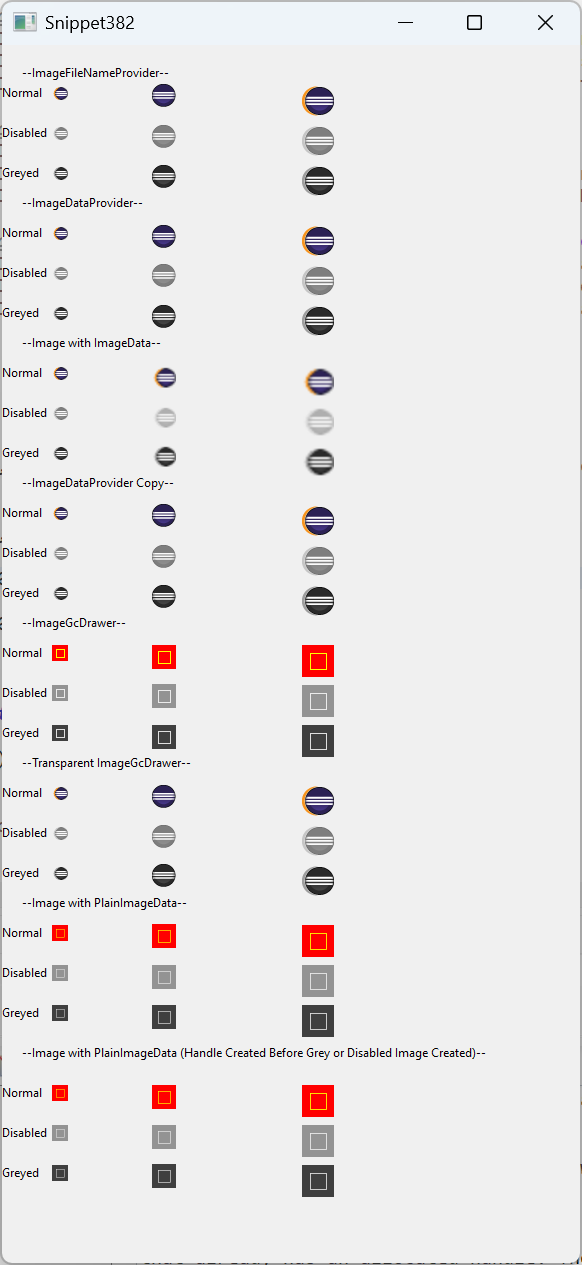
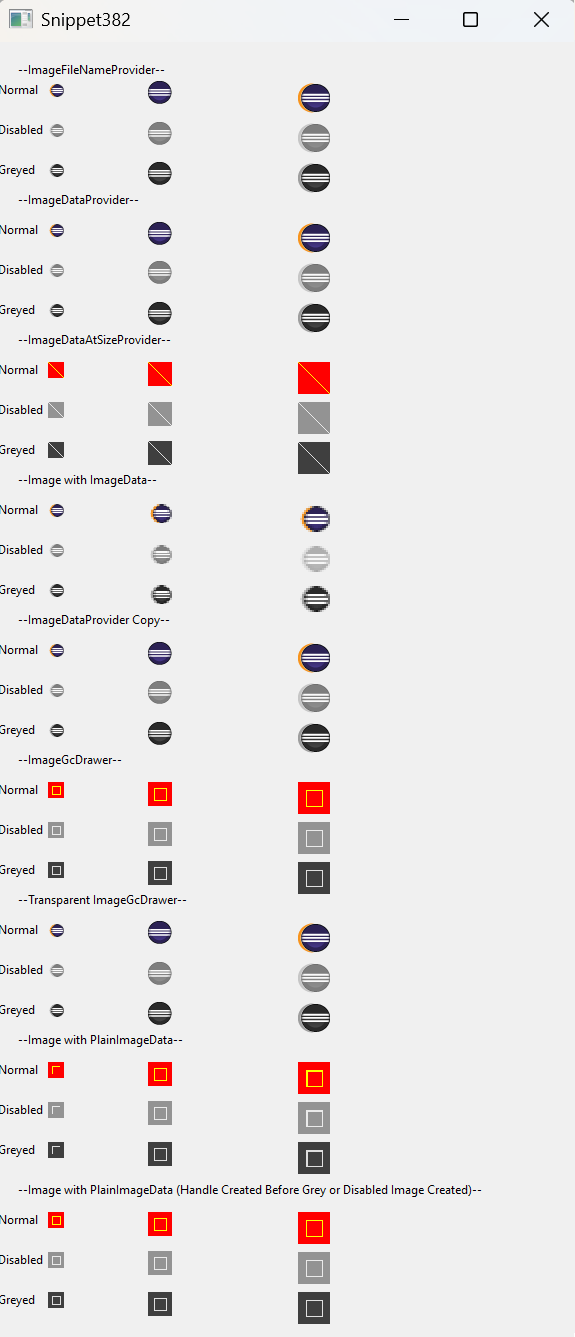
Add ImageDataAtSizeProvider to Snippet382
This commit adds the usage of an ImageDataAtSizeProvider to Snippet382
for cover this use case for greyed/disabled images.

Changed region(s): [[0.0, 0.0, 1.0, 1.0], [0.7983, 0.0, 0.8574, 0.0308]]

diff --git a/examples/org.eclipse.swt.snippets/src/org/eclipse/swt/snippets/Snippet382.java b/examples/org.eclipse.swt.snippets/src/org/eclipse/swt/snippets/Snippet382.java
@@ -63,24 +63,54 @@ public class Snippet382 {
 				return null;
 			}
 		};
+		final ImageDataAtSizeProvider imageDataAtSizeProvider = new ImageDataAtSizeProvider() {
+
+			@Override
+			public Point getDefaultSize() {
+				return new Point(16, 16);
+			}
+
+			@Override
+			public ImageData getImageData(int width, int height) {
+				ImageData data = new ImageData(width, height, 24,
+						new PaletteData(0xFF0000, 0x00FF00, 0x0000FF));
+				int red = data.palette.getPixel(new RGB(255, 0, 0));
+				int yellow = data.palette.getPixel(new RGB(255, 255, 0));
+				for (int x = 0; x < data.width; x++) {
+					for (int y = 0; y < data.height; y++) {
+						if (x == y) {
+							data.setPixel(x, y, yellow);
+						} else {
+							data.setPixel(x, y, red);
+						}
+					}
+				}
+
+				return data;
+			}
+		};
 
 		final Display display = new Display ();
 
 		final Image imageWithFileNameProvider = new Image (display, filenameProvider);
-		final Supplier<Image> disabledImageWithFileNameProvider = () ->  new Image (display,imageWithFileNameProvider, SWT.IMAGE_DISABLE);
-		final Supplier<Image> greyImageWithFileNameProvider = () ->  new Image (display,imageWithFileNameProvider, SWT.IMAGE_GRAY);
+		final Supplier<Image> disabledImageWithFileNameProvider = () ->  new Image (display, imageWithFileNameProvider, SWT.IMAGE_DISABLE);
+		final Supplier<Image> greyImageWithFileNameProvider = () ->  new Image (display, imageWithFileNameProvider, SWT.IMAGE_GRAY);
 
 		final Image imageWithDataProvider = new Image (display, imageDataProvider);
-		final Image disabledImageWithDataProvider = new Image (display,imageWithDataProvider, SWT.IMAGE_DISABLE);
-		final Image greyImageWithDataProvider = new Image (display,imageWithDataProvider, SWT.IMAGE_GRAY);
+		final Image disabledImageWithDataProvider = new Image (display, imageWithDataProvider, SWT.IMAGE_DISABLE);
+		final Image greyImageWithDataProvider = new Image (display, imageWithDataProvider, SWT.IMAGE_GRAY);
+
+		final Image imageWithDataAtSizeProvider = new Image (display, imageDataAtSizeProvider);
+		final Image disabledImageWithDataAtSizeProvider = new Image (display, imageWithDataAtSizeProvider, SWT.IMAGE_DISABLE);
+		final Image greyImageWithDataAtSizeProvider = new Image (display, imageWithDataAtSizeProvider, SWT.IMAGE_GRAY);
 
 		final Image imageWithData = new Image (display, IMAGE_PATH_100);
-		final Image disabledImageWithData = new Image (display,imageWithData, SWT.IMAGE_DISABLE);
-		final Image greyImageWithData = new Image (display,imageWithData, SWT.IMAGE_GRAY);
+		final Image disabledImageWithData = new Image (display, imageWithData, SWT.IMAGE_DISABLE);
+		final Image greyImageWithData = new Image (display, imageWithData, SWT.IMAGE_GRAY);
 
 		final Supplier<Image> imageWithDataCopy = () ->   new Image (display, imageWithDataProvider, SWT.IMAGE_COPY);
-		final Supplier<Image> disabledImageWithDataCopy = () ->  new Image (display,disabledImageWithDataProvider, SWT.IMAGE_COPY);
-		final Supplier<Image> greyImageWithDataCopy = () ->  new Image (display,greyImageWithDataProvider, SWT.IMAGE_COPY);
+		final Supplier<Image> disabledImageWithDataCopy = () ->  new Image (display, disabledImageWithDataProvider, SWT.IMAGE_COPY);
+		final Supplier<Image> greyImageWithDataCopy = () ->  new Image (display, greyImageWithDataProvider, SWT.IMAGE_COPY);
 
 		final ImageGcDrawer imageGcDrawer = (gc, width, height) -> {
 			gc.setBackground(display.getSystemColor(SWT.COLOR_RED));
@@ -150,44 +180,49 @@ public class Snippet382 {
 
 					try {
 						mainGC.drawText("--ImageFileNameProvider--", 20, 20);
-						drawImages(mainGC, gcData, "Normal",40, imageWithFileNameProvider);
-						drawImages(mainGC, gcData, "Disabled",80, disabledImageWithFileNameProvider.get());
-						drawImages(mainGC, gcData, "Greyed",120, greyImageWithFileNameProvider.get());
+						drawImages(mainGC, gcData, "Normal", 40, imageWithFileNameProvider);
+						drawImages(mainGC, gcData, "Disabled", 80, disabledImageWithFileNameProvider.get());
+						drawImages(mainGC, gcData, "Greyed", 120, greyImageWithFileNameProvider.get());
 
 						mainGC.drawText("--ImageDataProvider--", 20, 150);
-						drawImages(mainGC, gcData, "Normal",180, imageWithDataProvider);
-						drawImages(mainGC, gcData, "Disabled",220, disabledImageWithDataProvider);
-						drawImages(mainGC, gcData, "Greyed",260, greyImageWithDataProvider);
+						drawImages(mainGC, gcData, "Normal", 180, imageWithDataProvider);
+						drawImages(mainGC, gcData, "Disabled", 220, disabledImageWithDataProvider);
+						drawImages(mainGC, gcData, "Greyed", 260, greyImageWithDataProvider);
 
-						mainGC.drawText("--Image with ImageData--", 20, 290);
-						drawImages(mainGC, gcData, "Normal",320, imageWithData);
-						drawImages(mainGC, gcData, "Disabled",360, disabledImageWithData);
-						drawImages(mainGC, gcData, "Greyed",400, greyImageWithData);
+						mainGC.drawText("--ImageDataAtSizeProvider--", 20, 290);
+						drawImagesAtSize(mainGC, gcData, "Normal", 320, imageWithDataAtSizeProvider);
+						drawImagesAtSize(mainGC, gcData, "Disabled", 360, disabledImageWithDataAtSizeProvider);
+						drawImagesAtSize(mainGC, gcData, "Greyed", 400, greyImageWithDataAtSizeProvider);
 
-						mainGC.drawText("--ImageDataProvider Copy--", 20, 430);
-						drawImages(mainGC, gcData, "Normal",460, imageWithDataCopy.get());
-						drawImages(mainGC, gcData, "Disabled",500, disabledImageWithDataCopy.get());
-						drawImages(mainGC, gcData, "Greyed",540, greyImageWithDataCopy.get());
+						mainGC.drawText("--Image with ImageData--", 20, 430);
+						drawImages(mainGC, gcData, "Normal", 460, imageWithData);
+						drawImages(mainGC, gcData, "Disabled", 500, disabledImageWithData);
+						drawImages(mainGC, gcData, "Greyed", 540, greyImageWithData);
 
-						mainGC.drawText("--ImageGcDrawer--", 20, 570);
-						drawImages(mainGC, gcData, "Normal", 600, imageWithGcDrawer);
-						drawImages(mainGC, gcData, "Disabled", 640, disabledImageWithGcDrawer);
-						drawImages(mainGC, gcData, "Greyed", 680, greyImageWithGcDrawer);
+						mainGC.drawText("--ImageDataProvider Copy--", 20, 570);
+						drawImages(mainGC, gcData, "Normal", 600, imageWithDataCopy.get());
+						drawImages(mainGC, gcData, "Disabled", 640, disabledImageWithDataCopy.get());
+						drawImages(mainGC, gcData, "Greyed", 680, greyImageWithDataCopy.get());
 
-						mainGC.drawText("--Transparent ImageGcDrawer--", 20, 710);
-						drawImages(mainGC, gcData, "Normal", 740, imageWithTransparentGcDrawer);
-						drawImages(mainGC, gcData, "Disabled", 780, disabledImageWithTransparentGcDrawer);
-						drawImages(mainGC, gcData, "Greyed", 820, greyImageWithTransparentGcDrawer);
+						mainGC.drawText("--ImageGcDrawer--", 20, 710);
+						drawImages(mainGC, gcData, "Normal", 740, imageWithGcDrawer);
+						drawImages(mainGC, gcData, "Disabled", 780, disabledImageWithGcDrawer);
+						drawImages(mainGC, gcData, "Greyed", 820, greyImageWithGcDrawer);
 
-						mainGC.drawText("--Image with PlainImageData--", 20, 850);
-						drawImages(mainGC, gcData, "Normal", 880, imageWithPlainImageData);
-						drawImages(mainGC, gcData, "Disabled", 920, disabledImageWithPlainImageData);
-						drawImages(mainGC, gcData, "Greyed", 960, greyImageWithPlainImageData);
+						mainGC.drawText("--Transparent ImageGcDrawer--", 20, 850);
+						drawImages(mainGC, gcData, "Normal", 880, imageWithTransparentGcDrawer);
+						drawImages(mainGC, gcData, "Disabled", 920, disabledImageWithTransparentGcDrawer);
+						drawImages(mainGC, gcData, "Greyed", 960, greyImageWithTransparentGcDrawer);
 
-						mainGC.drawText("--Image with PlainImageData (Handle Created Before Grey or Disabled Image Created)--", 20, 1000);
-						drawImages(mainGC, gcData, "Normal", 1040, imageWithPlainImageDataWithHandleAlreadyCreated);
-						drawImages(mainGC, gcData, "Disabled", 1080, disabledImageWithHandleCreated);
-						drawImages(mainGC, gcData, "Greyed", 1120, greyImageWithHandleCreated);
+						mainGC.drawText("--Image with PlainImageData--", 20, 990);
+						drawImages(mainGC, gcData, "Normal", 1020, imageWithPlainImageData);
+						drawImages(mainGC, gcData, "Disabled", 1060, disabledImageWithPlainImageData);
+						drawImages(mainGC, gcData, "Greyed", 1100, greyImageWithPlainImageData);
+
+						mainGC.drawText("--Image with PlainImageData (Handle Created Before Grey or Disabled Image Created)--", 20, 1140);
+						drawImages(mainGC, gcData, "Normal", 1170, imageWithPlainImageDataWithHandleAlreadyCreated);
+						drawImages(mainGC, gcData, "Disabled", 1210, disabledImageWithHandleCreated);
+						drawImages(mainGC, gcData, "Greyed", 1250, greyImageWithHandleCreated);
 					} finally {
 						mainGC.dispose ();
 					}
@@ -204,10 +239,21 @@ public class Snippet382 {
 				mainGC.drawImage(image, 150, y/2);
 				gcData.nativeZoom = 100;
 			}
+
+			private void drawImagesAtSize(GC mainGC, GCData gcData, String text, int y, final Image image) {
+				gcData.nativeZoom = 100;
+				mainGC.drawText(text, 0, y);
+				mainGC.drawImage(image, 50, y, 16, 16);
+				gcData.nativeZoom = 150;
+				mainGC.drawImage(image, 100, (int) (y/1.5), 16, 16);
+				gcData.nativeZoom = 200;
+				mainGC.drawImage(image, 150, y/2, 16, 16);
+				gcData.nativeZoom = 100;
+			}
 		};
 		shell.addListener(SWT.Paint, l);
 
-		shell.setSize(400, 850);
+		shell.setSize(400, 1350);
 		shell.open ();
 		while (!shell.isDisposed ()) {
 			if (!display.readAndDispatch ()) display.sleep ();
